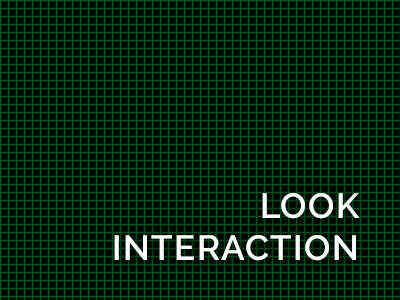
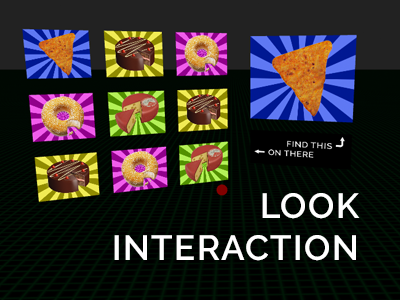
Added look interaction demo Fixes #2

diff --git a/demos/look_interaction/demo.js b/demos/look_interaction/demo.js
@@ -1,0 +1,305 @@
+var demo = (function(window, document) {
+  'use strict';
+  var core = window.core;
+  var T = window.THREE;
+
+  var renderer, scene, camera, effect, controls;
+
+  var ground, ambientLight;
+
+  scene = new T.Scene();
+  camera = core.setCameraOptions();
+  if (core.isPocketDevice()) {
+    camera.position.set(0, 20, 20);
+  } else {
+    camera.position.set(0, 50, 50);
+  }
+  scene.add(camera);
+
+  renderer = new T.WebGLRenderer({
+    alpha: true,
+    antialias: true,
+    logarithmicDepthBuffer: true,
+  });
+  renderer.setSize(core.options.width, core.options.height);
+  renderer.shadowMap.enabled = true;
+  renderer.shadowMap.soft = true;
+  document.body.appendChild(renderer.domElement);
+  controls = core.setControllerMethod(camera, renderer.domElement);
+
+  effect = new T.StereoEffect(renderer);
+  effect.eyeSeparation = 1;
+  effect.focalLength = 25;
+  effect.setSize(core.options.width, core.options.height);
+
+  var groundTexture = T.ImageUtils.loadTexture('grid.png');
+  groundTexture.wrapS = groundTexture.wrapT = T.RepeatWrapping;
+  groundTexture.repeat.set(1000, 1000); // Number of times to repeat texture
+  groundTexture.anisotropy = renderer.getMaxAnisotropy();
+  ground = core.build(
+    'PlaneBufferGeometry', [2000, 2000, 100],
+    'MeshLambertMaterial', [{
+      color: 0x222222,
+      map: groundTexture
+    }]
+  );
+  ground.position.y = -10;
+  ground.rotation.x = -Math.PI / 2;
+  ground.receiveShadow = true;
+  scene.add(ground);
+
+
+  ambientLight = new T.AmbientLight(0xf0f0f0, 0.2);
+  scene.add(ambientLight);
+
+
+
+  // First define each level
+  var icons = ['dorito', 'cake', 'cheese', 'donut'];
+
+  var levels = [
+    {
+      target: 'dorito',
+      rows: [
+        [0,1,3],
+        [3,2,1],
+        [1,3,2],
+      ]
+    },
+    {
+      target: 'cake',
+      rows: [
+        [0,3,2],
+        [3,1,0],
+        [2,0,3],
+      ]
+    }
+  ];
+
+
+  var levelObjects = [];
+
+  var iconWidth = 8;
+  var iconHeight = 6;
+  var space = 2;
+  var boardWidth = (iconWidth * 3) + (space * 4);
+
+  levels.forEach(function (level) {
+    var target = level.target;
+    var rows = level.rows;
+
+    var levelObject = new T.Object3D();
+    var levelBoard = new T.Object3D();
+    levelBoard.name = target;
+    var targetBoard = new T.Object3D();
+    targetBoard.position.x = boardWidth;
+    levelObject.add(levelBoard);
+    levelObject.add(targetBoard);
+
+    var targetTexture = T.ImageUtils.loadTexture('icons/' + target + '.png');
+      targetTexture.wrapS = targetTexture.wrapT = T.ClampToEdgeWrapping;
+      targetTexture.repeat.set(1,1);
+      targetTexture.minFilter = T.LinearFilter;
+
+    var targetWidth = (iconWidth * 2) + space;
+    var targetHeight = (iconHeight * 2) + space;
+    var targetObject = core.build(
+      'PlaneBufferGeometry',
+      [targetWidth, targetHeight, 1, 1],
+      'MeshLambertMaterial',
+      [{
+        map: targetTexture
+      }]
+    );
+    targetObject.name = target;
+    targetObject.position.y = -space;
+    targetBoard.add(targetObject);
+
+    var statusTexture = T.ImageUtils.loadTexture('icons/instructions.png');
+      statusTexture.wrapS = statusTexture.wrapT = T.ClampToEdgeWrapping;
+      statusTexture.repeat.set(1,1);
+      statusTexture.minFilter = T.LinearFilter;
+    var statusWidth = (iconWidth * 2) + space;
+    var statusHeight = (iconHeight);
+    var statusObject = core.build(
+      'PlaneBufferGeometry',
+      [statusWidth, statusHeight, 1, 1],
+      'MeshLambertMaterial',
+      [{
+        map: statusTexture
+      }]
+    );
+    statusObject.position.y = -targetHeight;
+    targetBoard.add(statusObject);
+
+    rows.forEach(function (row, r) {
+      var rowObject = new T.Object3D();
+
+      row.forEach(function (icon, i) {
+        var actualIcon = icons[icon];
+        var iconTexture = T.ImageUtils.loadTexture('icons/' + actualIcon + '.png');
+        iconTexture.wrapS = iconTexture.wrapT = T.ClampToEdgeWrapping;
+        iconTexture.repeat.set(1,1);
+        iconTexture.minFilter = T.LinearFilter;
+
+        var iconObject = core.build(
+          'PlaneBufferGeometry',
+          [iconWidth,iconHeight,1,1],
+          'MeshLambertMaterial',
+          [{
+            map: iconTexture
+          }]
+        );
+        iconObject.name = actualIcon;
+        iconObject.position.x = (i * iconWidth) + (space * (i - 1));
+        iconObject.position.y = (-r * iconHeight) + (space * -(r - 1));
+
+        var button = core.build(
+          'PlaneBufferGeometry',
+          [iconWidth, iconHeight, 1, 1],
+          'MeshLambertMaterial',
+          [{
+            color: 0xff0000
+          }]
+        );
+        button.material.visible = false;
+        button.position.set(0, 0, 1);
+        iconObject.add(button);
+        rowObject.add(iconObject);
+      });
+
+
+      levelBoard.add(rowObject);
+    });
+
+    targetBoard.position.z = -20;
+    levelBoard.lookAt(new T.Vector3(2,0,4));
+
+    levelObject.position.y = 15;
+    levelObject.position.z = -5;
+    levelObject.position.x = -(((5 * iconWidth) + (2 * space)) / 2);
+
+    levelObjects.push(levelObject);
+  });
+
+
+
+
+  var lastViewedThing = null;
+  var triggered = [];
+
+  var checkIfViewingSomething = function (items, callback1, callback2, callback3) {
+    var raycaster = new T.Raycaster();
+    raycaster.setFromCamera(core.center, camera);
+
+    var intersects = raycaster.intersectObjects(items);
+
+    if (intersects.length) {
+      var item = intersects[0].object; // the thing we've hit
+      if (item.id !== lastViewedThing) {
+        lastViewedThing = item.id;
+        if (!triggered[item.id]) {
+          callback1(item.children[0]);
+          triggered[item.id] = true;
+        }
+        setTimeout(function () {
+          if (typeof callback3 === 'function') {
+            callback3(item);
+          }
+        }, 1000);
+      }else{
+        if (triggered[item.id]) {
+          setTimeout(function () {
+            triggered[item.id] = null;
+            callback2(item);
+          }, 250);
+        }
+      }
+
+    }
+
+  };
+  var backDevice = core.addBackDevice();
+  scene.add(backDevice);
+
+  var currentLevel = 0;
+  var currentLevelIcons;
+  var levelPassed = false;
+  var currentLevelObject = levelObjects[currentLevel];
+  scene.add(currentLevelObject);
+  setInterval(function () {
+    if (levelPassed && currentLevel < (levelObjects.length - 1)) {
+      levelPassed = false;
+      scene.remove(currentLevelObject);
+      currentLevel++;
+      currentLevelObject = levelObjects[currentLevel];
+      scene.add(currentLevelObject);
+      render();
+    }
+  }, 100);
+
+  var getCurrentLevelIcons = function (currentLevel) {
+    return [
+      levelObjects[currentLevel].children[0].children[0].children,
+      levelObjects[currentLevel].children[0].children[1].children,
+      levelObjects[currentLevel].children[0].children[2].children
+    ];
+  };
+
+
+  var highlightBackDevice = function (device){
+    device.material.visible = true;
+  };
+  var triggerBackDevice = function (){
+    history.back();
+  };
+  var highlightIcon = function (icon) {
+    // icon.material.visible = true;
+  };
+  var testIfCorrectIcon = function (icon) {
+    var target = icon.parent.parent.name;
+    var current = icon.name;
+    var color, image;
+    var statusMaterial = levelObjects[currentLevel].children[1].children[1].material;
+    statusMaterial.visible = false;
+
+    if (current !== target) {
+      image = 'icons/wrong.png';
+      color = 0xff0000;
+    } else {
+      image = 'icons/correct.png';
+      color = 0x00ff00;
+      levelPassed = true;
+    }
+    var texture = new T.ImageUtils.loadTexture(image);
+    texture.wrapS = texture.wrapT = T.ClampToEdgeWrapping;
+    texture.repeat.set(1,1);
+    texture.minFilter = T.LinearFilter;
+    statusMaterial.map = texture;
+    // statusMaterial.needsUpdate = true;
+    statusMaterial.color.setHex(color);
+    statusMaterial.visible = true;
+  };
+
+  var resetIcon = function (icon) {
+    icon.children[0].material.visible = false;
+  };
+  var render = function() {
+    controls.update();
+
+    effect.render(scene, camera);
+    requestAnimationFrame(render);
+    checkIfViewingSomething([backDevice], highlightBackDevice, triggerBackDevice, null);
+    currentLevelIcons = getCurrentLevelIcons(currentLevel);
+    currentLevelIcons = [].concat.apply([], currentLevelIcons);
+    checkIfViewingSomething(currentLevelIcons, highlightIcon, testIfCorrectIcon, resetIcon);
+
+    levelObjects[currentLevel].children[1].lookAt(new T.Vector3(camera.position.x, 0, camera.position.z));
+  };
+  render();
+
+  window.addEventListener('resize', function() {
+    core.resizeRenderer(renderer, scene, camera, effect);
+  }, false);
+
+}(window, document));

diff --git a/demos/look_interaction/index.html b/demos/look_interaction/index.html
@@ -1,0 +1,27 @@
+<!DOCTYPE html>
+<html>
+<head>
+  <meta charset="utf-8">
+  <meta http-equiv="X-UA-Compatible" content="IE=edge">
+  <meta name="viewport" content="width=device-width, initial-scale=1.0">
+  <title>Look Interaction</title>
+  <style>
+  html, body {
+    overflow: hidden;
+    width: 100%;
+    height: 100%;
+    margin: 0;
+    padding: 0;
+    background: #222;
+  }
+  </style>
+</head>
+<body>
+  <script src="../../assets/js/lib/three.min.js"></script>
+  <script src="../../assets/js/lib/StereoEffect.js"></script>
+  <script src="../../assets/js/lib/OrbitControls.js"></script>
+  <script src="../../assets/js/lib/DeviceOrientationControls.js"></script>
+  <script src="../core.js"></script>
+  <script src="demo.js"></script>
+</body>
+</html>
